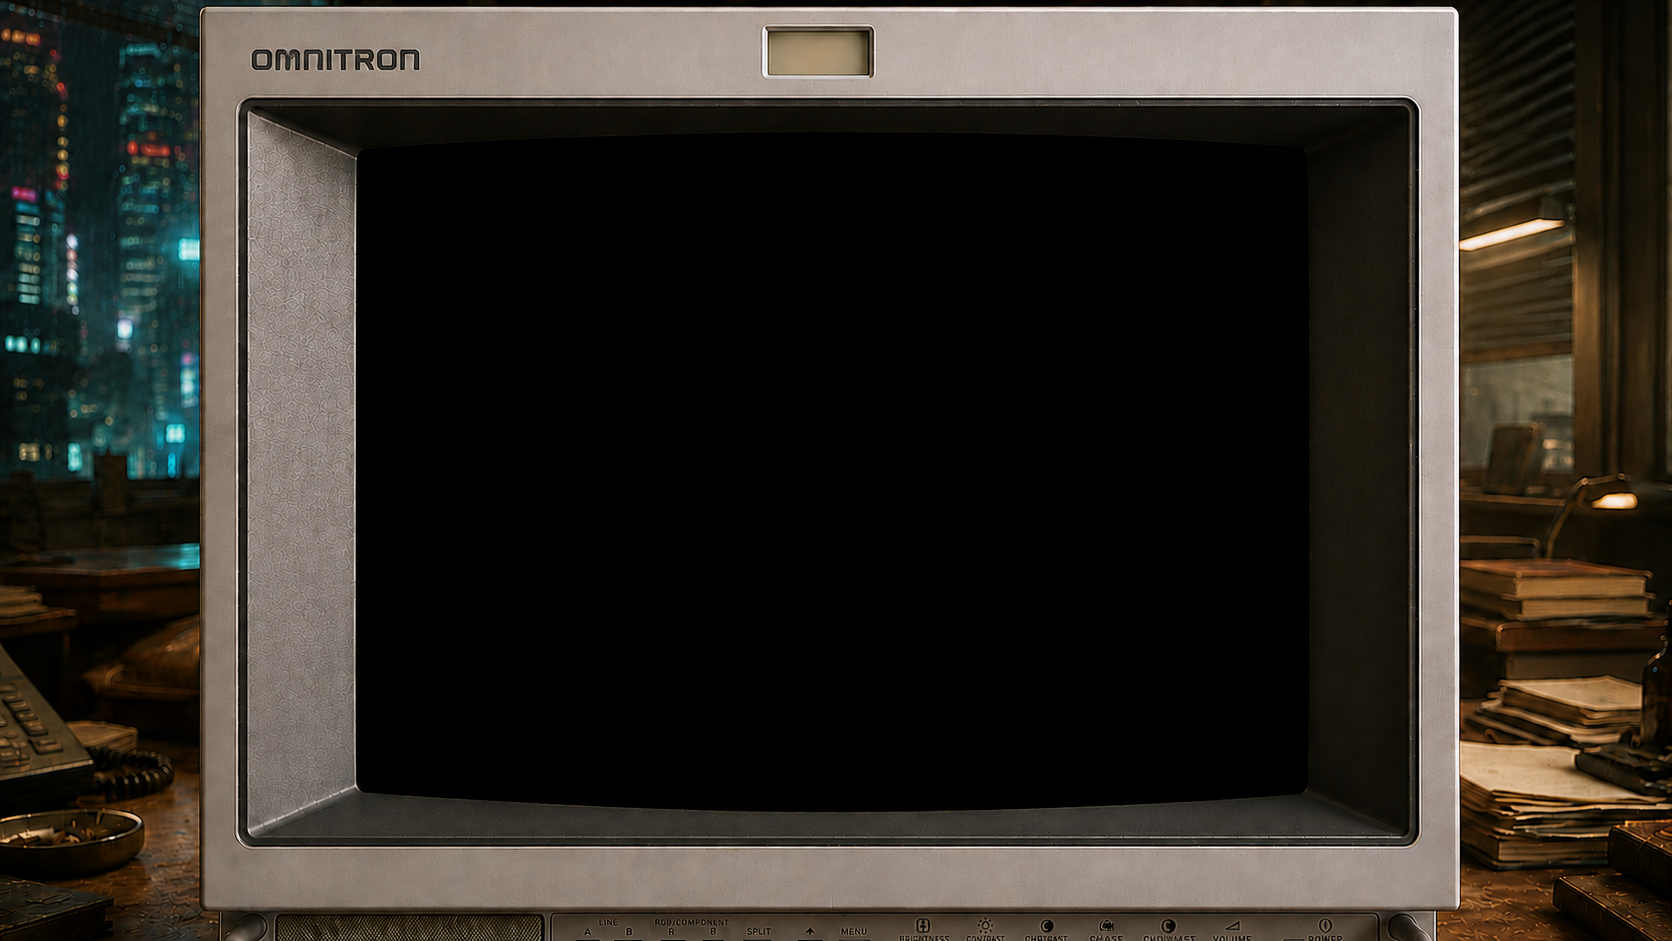
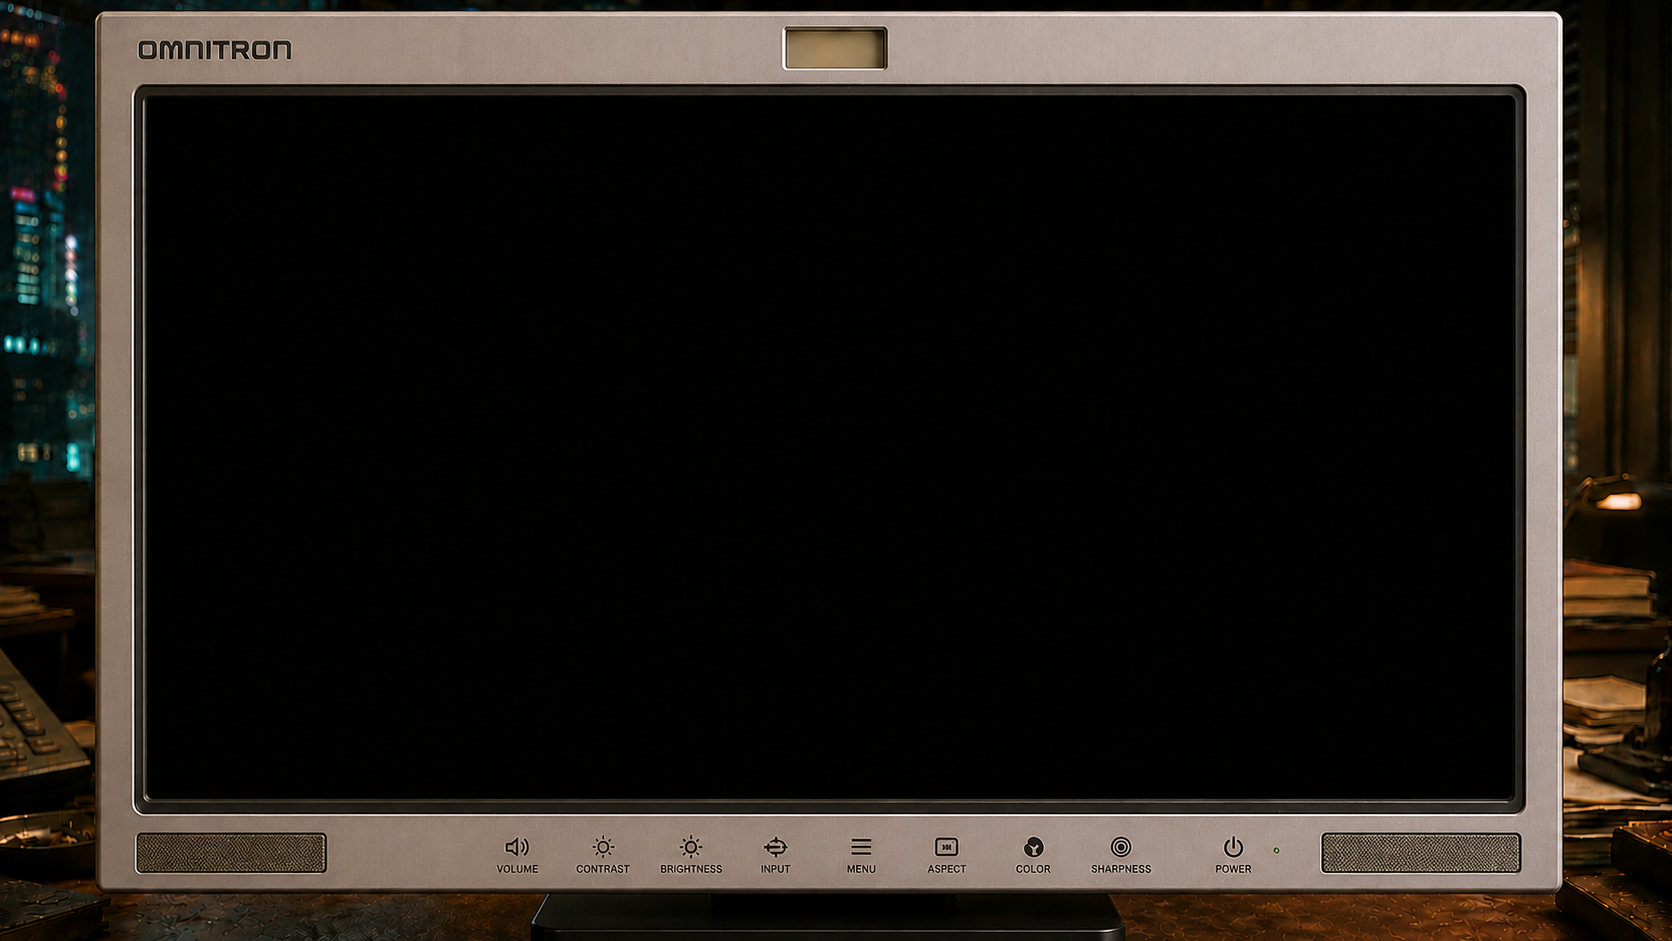
v0.9.95

diff --git a/users/ville/readme.md b/users/ville/readme.md
@@ -44,7 +44,7 @@ Tested distributions:
 
 Note! Internet connection is required.
 
-### LATEST RELEASE: v0.9.94 ###
+### LATEST RELEASE: v0.9.95 ###
 
 PROJECT STATUS: EARLY ACCESS from v0.8.0 to v1.0.0
 
